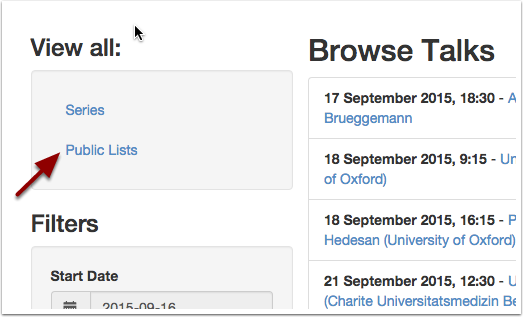
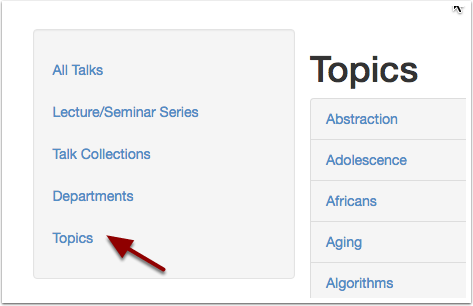
Updating images etc for User Guide

diff --git a/docs/source/user/talk-users/explore-talks.rst b/docs/source/user/talk-users/explore-talks.rst
@@ -1,4 +1,4 @@
-.. Note:: |upcoming| 
+
 
 
 Explore Oxford Talks
@@ -9,19 +9,19 @@ An introduction to Oxford Talks
 Browse and Search
 -----------------
 
-Today's talks are always displayed on the Home Page of Oxford Talks. To find out more about upcoming talks use the **Browse Talks** button or the **Search** box
+Today's talks are always displayed on the Home Page of Oxford Talks. Don't forget you can use the **Search** box if you're looking for something specific.
 
 .. image:: images/explore-talks/browse-and-search.png
    :alt: Browse and Search
-   :height: 117px
-   :width: 570px
+   :height: 180px
+   :width: 614px
    :align: center
 
 
 View upcoming talks
 -------------------
 
-The Browse Talks page will show you all talks for the next 8 weeks. Use the date filters on the filter panel to adjust this.
+The Home Page will show you all talks for the next 30 days - you can use the tabs to see tomorrow's or next week's talks. If you're looking for talks in a particular time-frame, use the date filters on the filter panel to adjust this.
 
 #. Click the calendar icon on the **Start Date** or **End Date** filters to set the date
 #. If you want to see all the upcoming talks, use the **clear** button on the **End Date** filter
@@ -34,10 +34,25 @@ The Browse Talks page will show you all talks for the next 8 weeks. Use the date
    :align: center
 
 
+Find a seminar series
+---------------------
+
+If you are interested in a particular seminar series, or meetings of a society: 
+
+* Use the **Series** box in the filter panel if you know the name of the series you are interested in
+* Alternatively, browse the full list of **Lecture/Seminar Series** using the link from the left hand panel 
+
+.. image:: images/explore-talks/find-a-seminar-series.png
+   :alt: Find a seminar series
+   :height: 281px
+   :width: 614px
+   :align: center
+
+
 See my department's talks
 -------------------------
 
-To see all upcoming talks happening in your department
+To see all upcoming talks happening in your department:
 
 #. Start typing into the **Department** box on the filter panel. You don't need to type the full name (for instance, 'HI' will find the Faculty of History, acronyms like 'DPAG' will also work)
 #. Remember to click **Submit**
@@ -49,18 +64,12 @@ To see all upcoming talks happening in your department
    :align: center
 
 
-Find a seminar series
----------------------
+Alternatively use the **Departments** link on the Home Page, this will take you to a listing of the main University departments, listed by Division.
 
-If you are interested in a particular seminar series, or meetings of a society:
-
-* Use the **Series** box in the filter panel if you know the name of the series you are interested in
-* Alternatively, browse the full list of series from the **View all** panel
-
-.. image:: images/explore-talks/find-a-seminar-series.png
-   :alt: Find a seminar series
-   :height: 281px
-   :width: 463px
+.. image:: images/explore-talks/438c25c0-eceb-4d98-9f2d-1f02f16e81bd.png
+   :alt: 
+   :height: 293px
+   :width: 580px
    :align: center
 
 
@@ -69,45 +78,29 @@ Discover talks on an interesting topic
 
 It's also possible to find talks on a on a particular topic - you don't need to know the series talk belongs to or the organising department - there are two ways to do this:
 
-**Public Lists**
+**Public Collections**
 
-* Click **Public Lists** in the **View all** panel to see collections of talks made by other people
-
-.. image:: images/explore-talks/discover-talks-on-an-interesting-topic.png
-   :alt: Discover talks on an interesting topic
-   :height: 317px
-   :width: 523px
-   :align: center
-
+* Click **Talk Collections** in the left hand panel to see collections of talks made by other people
 
 **Topics**
 
-Talks Editors are also beginning to tag talks with a huge range of topics (based on the Library of Congress subject headings). Ways to browse talks by topic will be delivered in the next phases of development.
+Talks Editors are also beginning to tag talks with a huge range of topics (based on the Library of Congress subject headings). 
 
-Meanwhile:
+* Click **Topics** in the left hand panel to see the topics currently in use (this page can take a little time to load)
 
-* To find talks in a particular subject area use the **Search** box to type your search term
-
-.. image:: images/explore-talks/1eeac054-56b9-461b-81e7-a0299f31b32b.png
-   :alt:
-   :height: 339px
-   :width: 552px
+.. image:: images/explore-talks/discover-talks-on-an-interesting-topic.png
+   :alt: Discover talks on an interesting topic
+   :height: 306px
+   :width: 473px
    :align: center
 
 
-* All the topics assigned to a talk or series are clickable, so you can explore a topic further from an individual talk
+* All the topics assigned to a talk or series are clickable, so you can also explore a topic further from an individual talk
 
 .. image:: images/explore-talks/204ed603-33b8-48b4-9ff3-c84675a70818.png
-   :alt:
+   :alt: 
    :height: 501px
    :width: 487px
-   :align: center
-
-
-.. image:: images/explore-talks/88fe1021-88ef-4e74-8082-b0fa4e6684bd.png
-   :alt:
-   :height: 286px
-   :width: 548px
    :align: center
 
 
@@ -119,3 +112,4 @@ There are further guides on:
 * :doc:`Making your own collected list of talks <make-a-list>`
 * :doc:`Copying talks to your calendar <add-to-your-calendar>`
 * :doc:`Getting a feed of talks into your calendar <feed-in-your-calendar>`
+

diff --git a/docs/source/user/talk-users/feed-in-your-calendar.rst b/docs/source/user/talk-users/feed-in-your-calendar.rst
@@ -1,4 +1,4 @@
-.. Note:: |upcoming| 
+
 
 
 Get an up-to-date feed in your own calendar
@@ -12,7 +12,7 @@ Get the feed URL
 ----------------
 
 * Find the series you would like to subscribe to
-* Right click on the **add to your calendar** button to copy the feed to URL to your clipboard (the **Copy Shortcut** or **Copy Link Address** option)
+* Right click on the **add to your calendar** button to copy the feed to URL to your clipboard (the **Copy Shortcut** or **Copy Link Address** option) 
 
 .. image:: images/feed-in-your-calendar/get-the-feed-url.png
    :alt: Get the feed URL
@@ -35,21 +35,21 @@ Outlook
    :align: center
 
 
-* Paste the URL into the **New Internet Calendar Subscription** box
+* Paste the URL into the **New Internet Calendar Subscription** box 
 * Click **OK**
 
 .. image:: images/feed-in-your-calendar/259b158e-511c-4d98-a0d9-aa04f7f2a2bc.png
-   :alt:
+   :alt: 
    :height: 206px
    :width: 440px
    :align: center
 
 
-* The calendar takes the last part of the web address as its name (for example: aed697e6-1a92-473d-a686-f77487689e0b.ics)
+* The calendar takes the last part of the web address as its name (for example: aed697e6-1a92-473d-a686-f77487689e0b.ics) 
 * To change the name click **Advanced ...**
 
 .. image:: images/feed-in-your-calendar/05c12bfe-f11a-4fed-ac29-69a32b196c1b.png
-   :alt:
+   :alt: 
    :height: 245px
    :width: 452px
    :align: center
@@ -59,7 +59,7 @@ Outlook
 #. Click **OK**
 
 .. image:: images/feed-in-your-calendar/2ff94965-ef90-4a28-9727-4fc7c5c024d1.png
-   :alt:
+   :alt: 
    :height: 387px
    :width: 600px
    :align: center
@@ -69,7 +69,7 @@ Outlook
 * The calendar will open as a new calendar in Outlook
 
 .. image:: images/feed-in-your-calendar/bace9430-3270-44c4-b3e5-fb1f5b5422f5.png
-   :alt:
+   :alt: 
    :height: 227px
    :width: 425px
    :align: center
@@ -94,7 +94,7 @@ Calendar (Mac)
 * Click **Subscribe**
 
 .. image:: images/feed-in-your-calendar/6c7df1e8-27fb-43f8-977a-bb481c49e3ca.png
-   :alt:
+   :alt: 
    :height: 194px
    :width: 594px
    :align: center
@@ -109,7 +109,7 @@ You will be asked to confirm the settings:
 
 
 .. image:: images/feed-in-your-calendar/18e90ec9-3a2d-4f0a-b12a-6c55535cc4cf.png
-   :alt:
+   :alt: 
    :height: 371px
    :width: 586px
    :align: center
@@ -119,7 +119,7 @@ You will be asked to confirm the settings:
 * The little wireless symbol reminds you that it is a subscription to a calendar feed
 
 .. image:: images/feed-in-your-calendar/7a0d4fa3-d429-4a44-a059-b61a512c7e74.png
-   :alt:
+   :alt: 
    :height: 239px
    :width: 362px
    :align: center
@@ -139,11 +139,11 @@ Google Calendar
    :align: center
 
 
-* Paste the feed URL into the **URL** box
+* Paste the feed URL into the **URL** box 
 * Click **Add Calendar**
 
 .. image:: images/feed-in-your-calendar/654d4252-95f3-4336-b485-b3266858bed5.png
-   :alt:
+   :alt: 
    :height: 272px
    :width: 593px
    :align: center
@@ -153,7 +153,7 @@ Google Calendar
 #. Click the calendar's drop-down list and select **Calendar settings** to change the name of the calendar to something more readable
 
 .. image:: images/feed-in-your-calendar/d1a25472-216a-4056-bf0d-c2c1fac769cd.png
-   :alt:
+   :alt: 
    :height: 318px
    :width: 517px
    :align: center

diff --git a/docs/source/user/talk-users/add-to-your-calendar.rst b/docs/source/user/talk-users/add-to-your-calendar.rst
@@ -1,4 +1,4 @@
-.. Note:: |upcoming| 
+
 
 
 Copy talks to your own calendar
@@ -13,16 +13,16 @@ Find the Add to Calendar link
 
 .. image:: images/add-to-your-calendar/find-the-add-to-calendar-link.png
    :alt: Find the Add to Calendar link
-   :height: 222px
-   :width: 593px
+   :height: 303px
+   :width: 610px
    :align: center
 
 
 * For a single talk, click on the **calendar icon** next to any talk
 
-.. image:: images/add-to-your-calendar/306f6c30-18aa-46b9-b32c-a4a1703b6d55.png
-   :alt:
-   :height: 195px
+.. image:: images/add-to-your-calendar/536c841c-c8cd-463d-9a97-9600c5ecadf7.png
+   :alt: 
+   :height: 158px
    :width: 614px
    :align: center
 
@@ -45,7 +45,7 @@ Using Internet Explorer and Outlook (PC)
 * Click **Open**
 
 .. image:: images/add-to-your-calendar/a76b304c-99bd-41f3-a3a6-8e8196a54840.png
-   :alt:
+   :alt: 
    :height: 379px
    :width: 600px
    :align: center
@@ -69,7 +69,7 @@ Using Safari and Calendar (Mac)
 * If you choose to add the talk to your Nexus calendar, you may get this message
 
 .. image:: images/add-to-your-calendar/dbfadfa7-5d03-4c94-b499-59a1d773259c.png
-   :alt:
+   :alt: 
    :height: 290px
    :width: 567px
    :align: center
@@ -94,7 +94,7 @@ Using Chrome and Google Calendar
 * In Google Calendar, choose **Import calendar** from the options for **Other calendars**
 
 .. image:: images/add-to-your-calendar/09b5c8b5-2f97-4050-99c4-93004870fab0.png
-   :alt:
+   :alt: 
    :height: 378px
    :width: 614px
    :align: center
@@ -105,7 +105,7 @@ Using Chrome and Google Calendar
 #. Click import to add your talk(s) to your chosen calendar
 
 .. image:: images/add-to-your-calendar/b36986a4-a369-4e8b-a1a7-0f065b34c676.png
-   :alt:
+   :alt: 
    :height: 328px
    :width: 588px
    :align: center

diff --git a/docs/source/user/talk-users/email-reminders.rst b/docs/source/user/talk-users/email-reminders.rst
@@ -1,10 +1,10 @@
-.. Note:: |upcoming| 
+
 
 
 Set up email reminders
 ======================
 
-Reminders and notifications by email are scheduled for the next phase of development. Meanwhile, there are a few limited options to set up email reminders using your own calendar.
+Reminders and notifications by email are not yet available. Meanwhile, there are a few limited options to set up email reminders using your own calendar.
 
 Google Calendar
 ---------------
